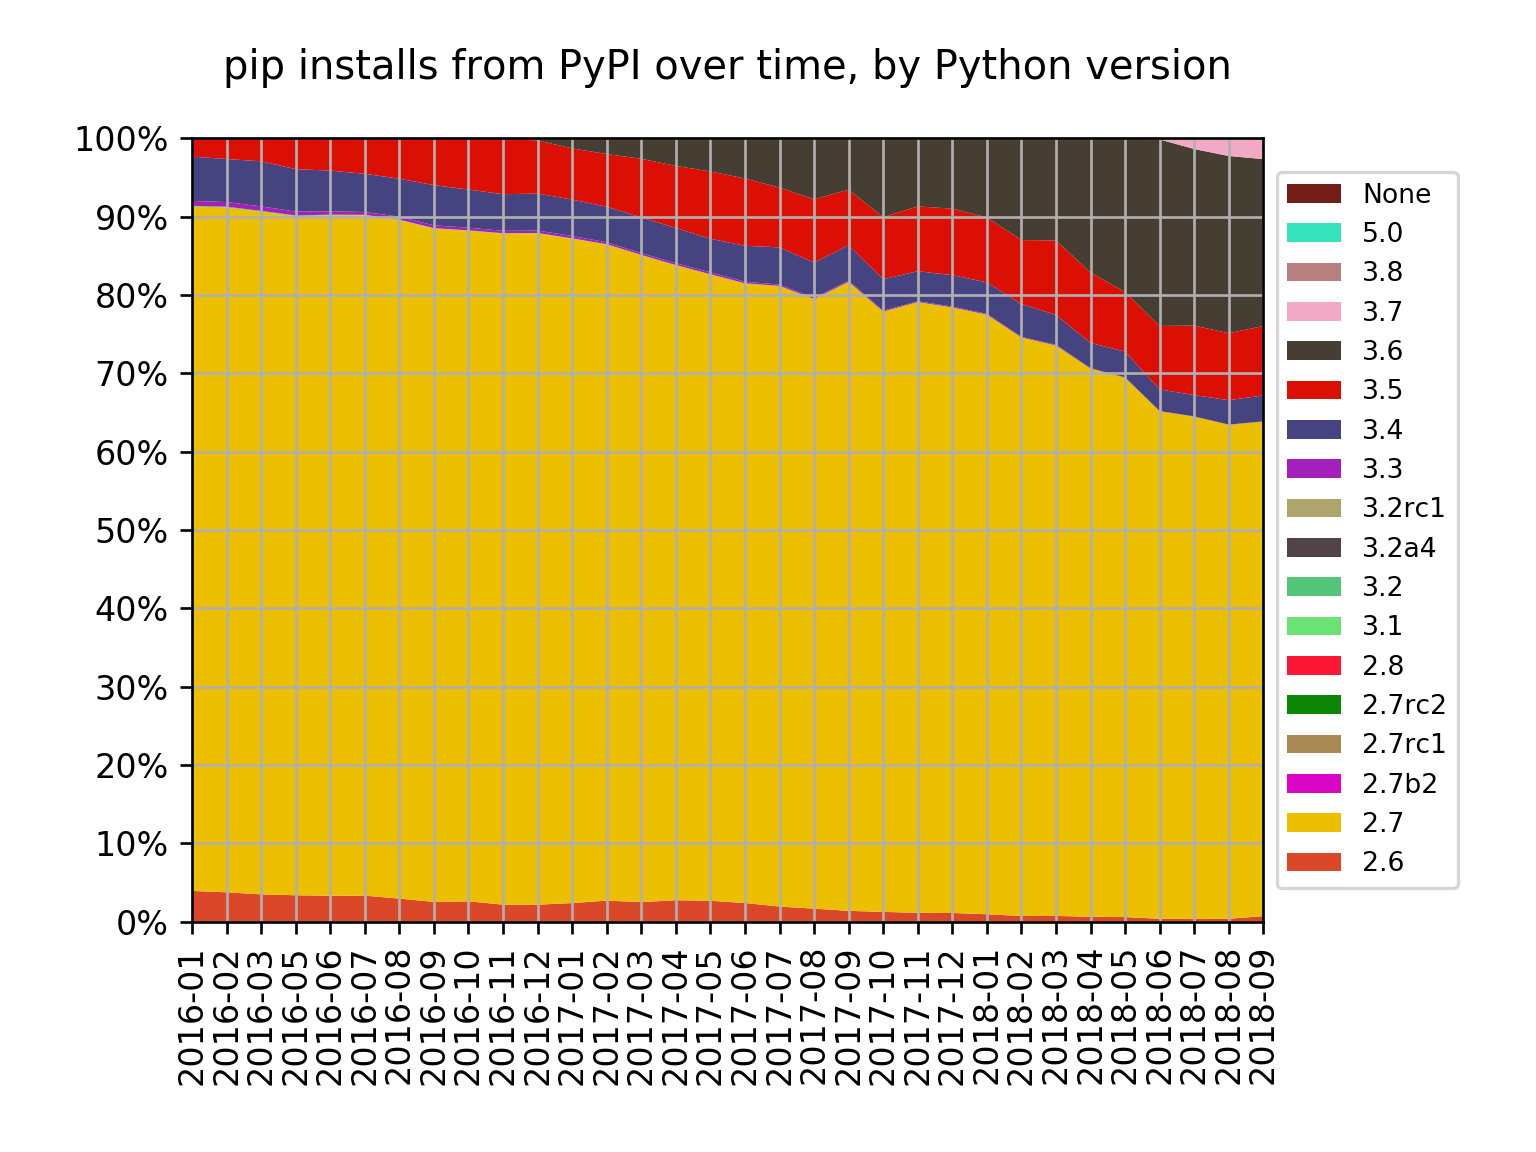
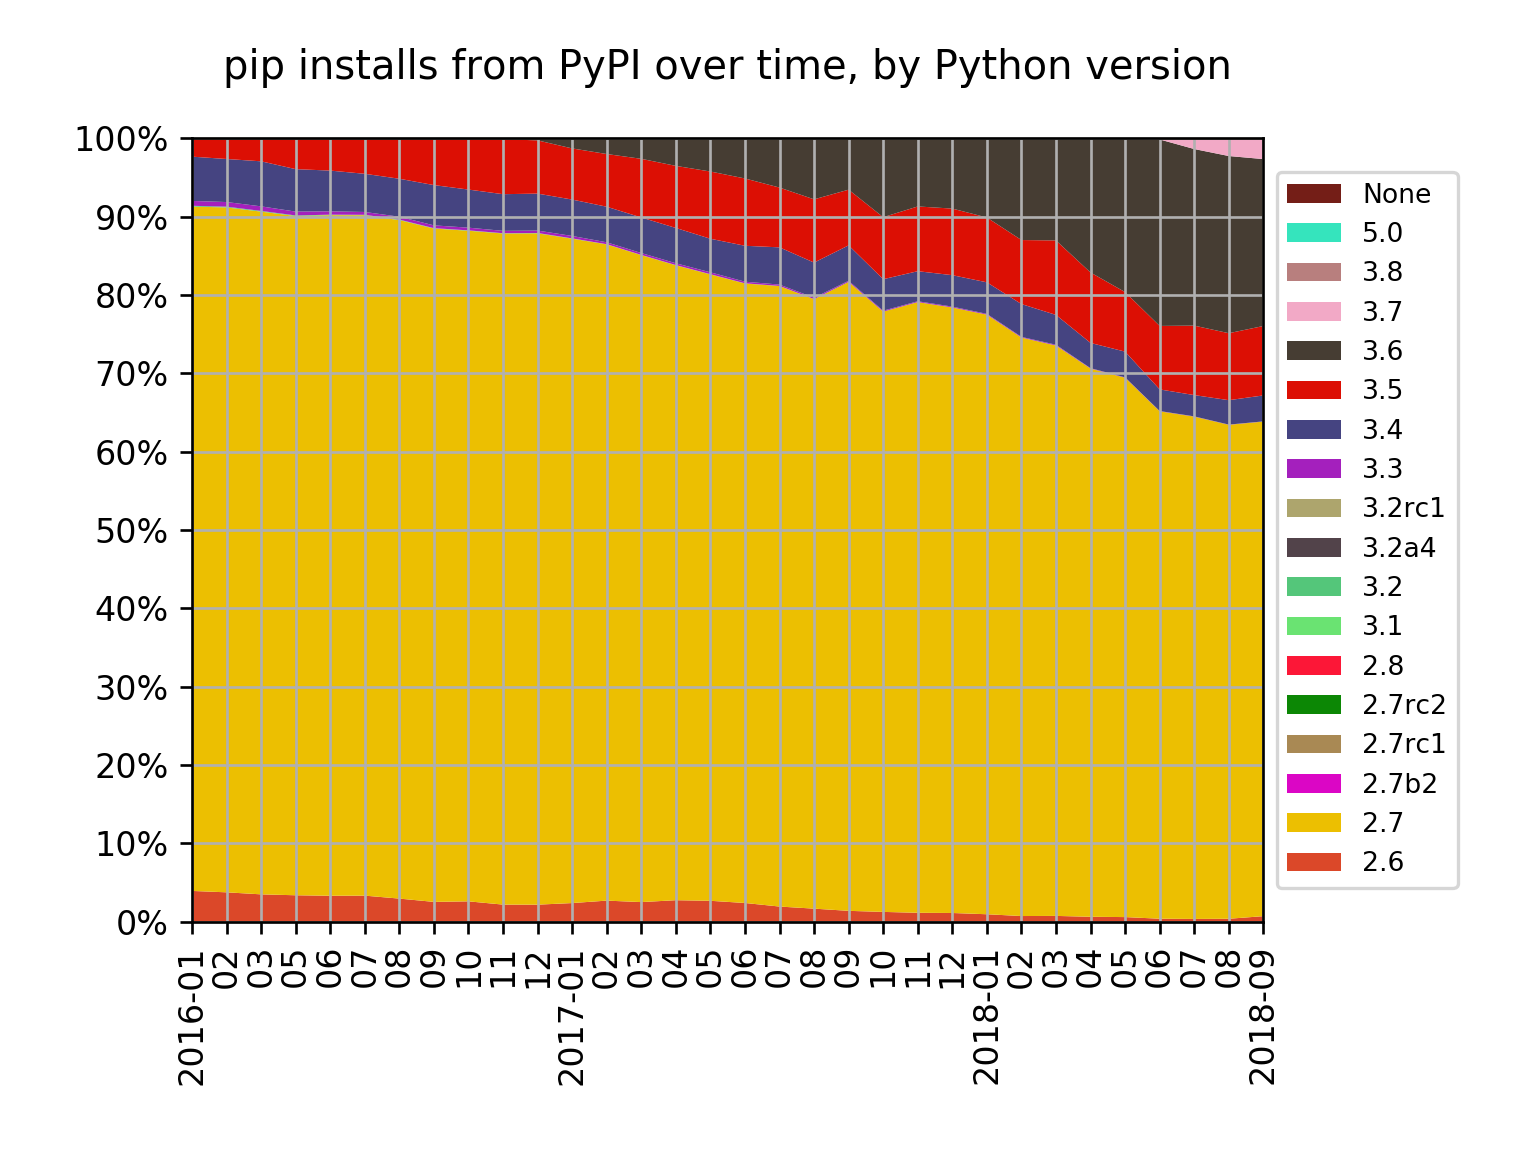
Tidy X labels: 2016-01, 02, ... 12, 2017-01, 02, ... 2018-09

Changed region(s): [[0.125, 0.8125, 0.625, 0.9375], [0.6562, 0.8438, 0.8125, 0.9375]]

diff --git a/jsons2csv.py b/jsons2csv.py
@@ -79,6 +79,19 @@ def make_chart(data, index, project_name, no_show):
     major_ticks = np.arange(0, 1.2, 0.1)
     ax.set_yticks(major_ticks)
 
+    # Set X labels to 2016-01, 02, ... 12, 2017-01, 02, ...
+    x_labels = []
+    last_year = None
+    for year_month in index[:-1]:
+        year, month = year_month.split("-")
+        if year == last_year:
+            x_labels.append(month)
+        else:
+            x_labels.append(year_month)
+            last_year = year
+    x_labels.append(index[-1])  # No change for last one
+    ax.set_xticklabels(x_labels)
+
     plt.xticks(rotation=90)
 
     # Pad margins so that markers don't get clipped by the axes

diff --git a/README.md b/README.md
@@ -13,8 +13,8 @@ pypi-trends.py is a wrapper around [pypinfo](https://github.com/ofek/pypinfo)
 to fetch all monthly downloads from the PyPI database on Google BigQuery and
 save them as JSON files.
 
-For the examples below, data was downloaded over three or four days as getting
-all months uses up a lot of free BigQuery quota.
+For the examples below, data was downloaded over a few days as getting all
+months uses up a lot of free BigQuery quota.
 
 ## jsons2csv.py
 
